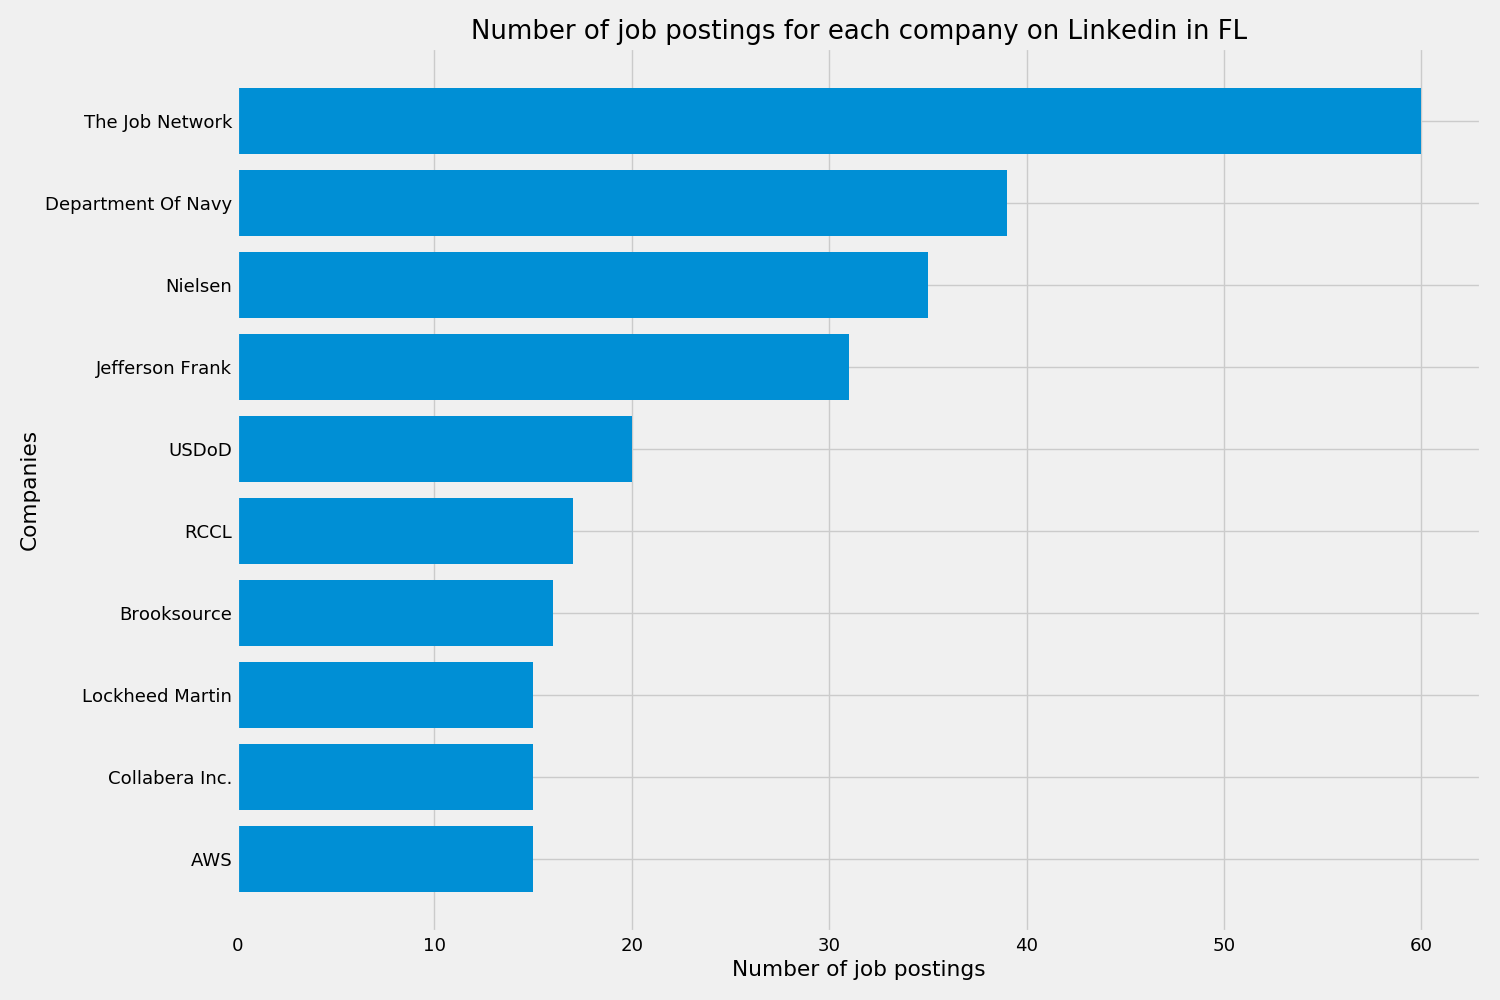
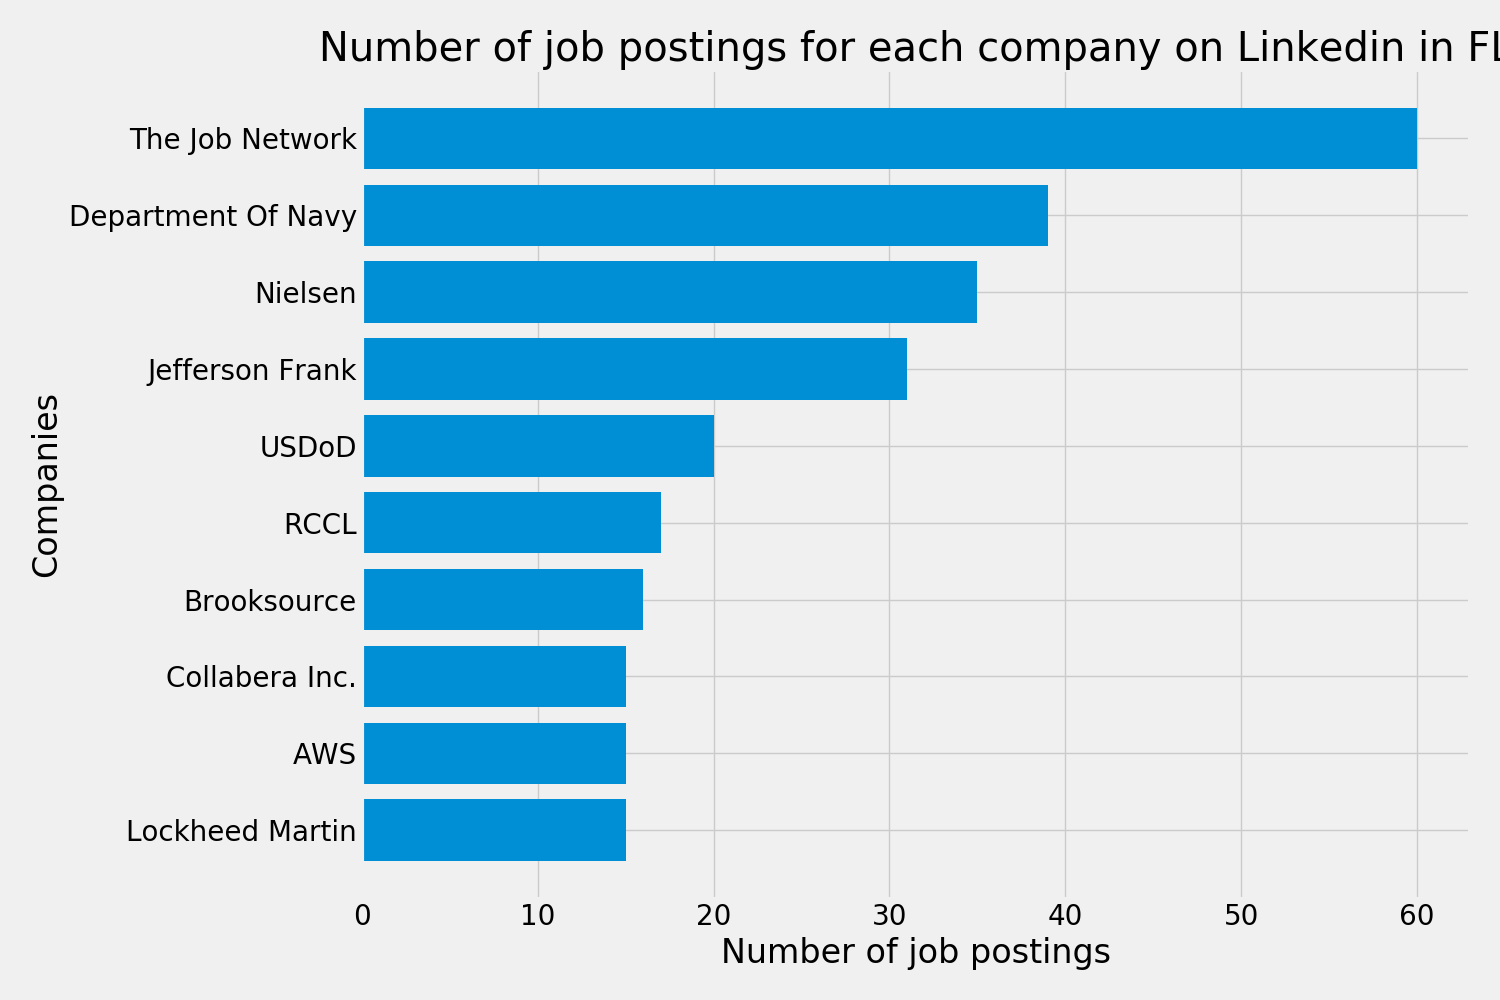
Messing with last graphs

diff --git a/src/graphing_eda.py b/src/graphing_eda.py
@@ -119,7 +119,7 @@ def graph_top10_companies(state_id):
 
     jobs_state = df_all_state['Company'].value_counts().values[:10]
     jobs_state = jobs_state[::-1]
-    plt.rcParams.update({'font.size': 13})
+    plt.rcParams.update({'font.size': 20})
 
     fig, ax = plt.subplots(figsize=(15,10))
     ax.barh(companies_state, jobs_state)
